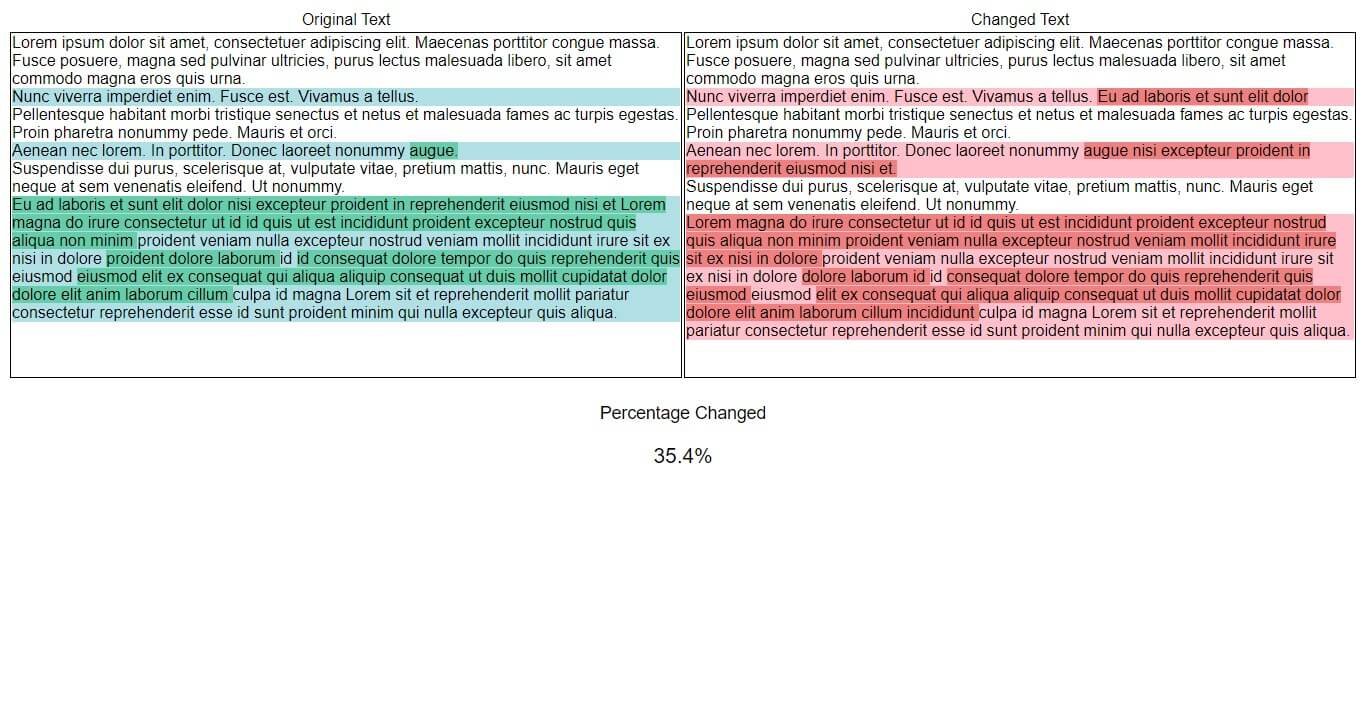
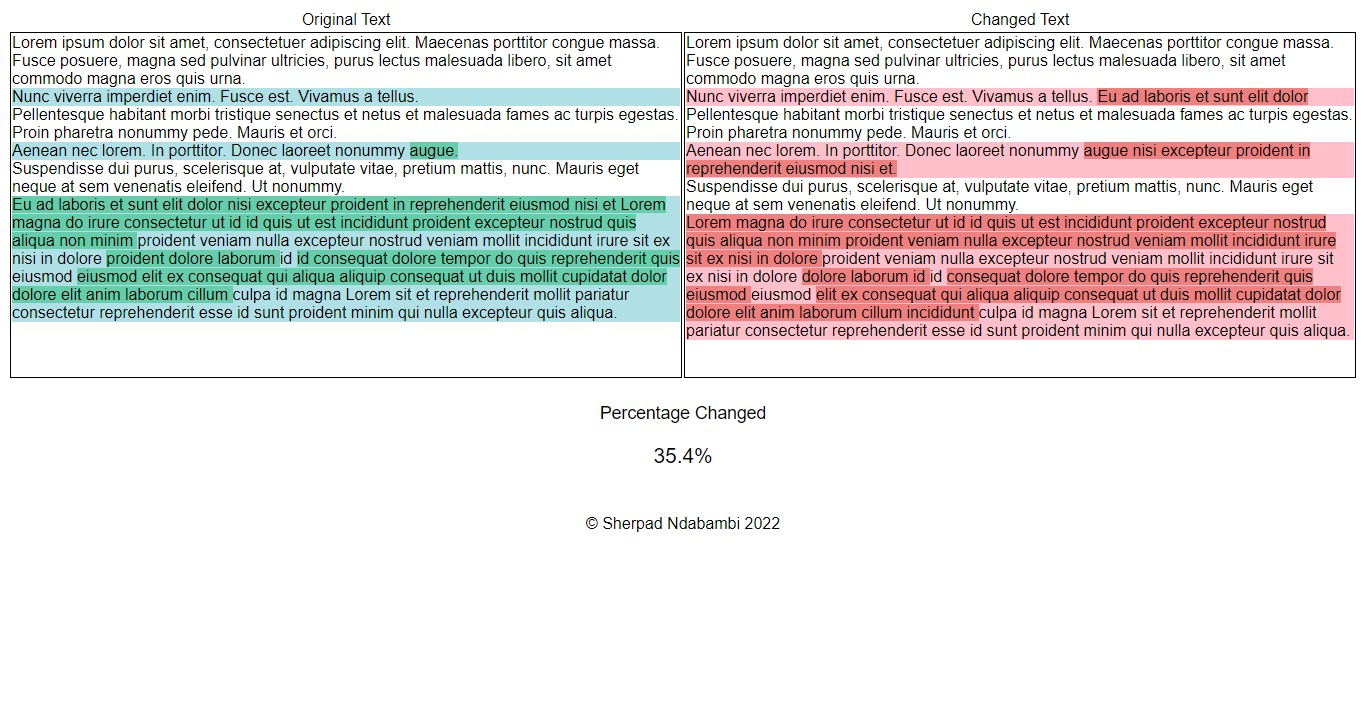
Added footer

diff --git a/index.html b/index.html
@@ -13,6 +13,12 @@
 
 	<link rel="stylesheet" type="text/css" href="./css/styles.css">
 
+	<!--scripts-->
+	<script defer type="text/javascript" src="./js/index.js"></script>
+	<script defer type="text/javascript" src="https://ajax.googleapis.com/ajax/libs/jquery/3.6.0/jquery.min.js"></script>
+	<script type="text/javascript" src="js/includeLocal.js"></script>
+	<script defer type="text/javascript">window.jQuery || includeLocalJS("jquery-3.6.0.min.js");</script>
+
 </head>
 
 <body onbeforeunload="onPageUnload()" onload="onPageLoad()">
@@ -30,8 +36,21 @@
 			<td colspan="2"><button onclick="checkDifference()">Check Difference</button></td>
 		</tr>
 	</table>
-	<div id="result"></div>
 
-	<script type="text/javascript" src="./js/index.js"></script>
+	<!--Footer-->
+	<footer class="container">
+
+		<div id="copyright" class="center middle">
+
+			&copy Sherpad Ndabambi <span id="footerYear"></span>
+
+		</div>
+		
+	</footer>
+
+	<script defer type="text/javascript" src="./js/index.js"></script>
+	<script defer type="text/javascript" src="https://ajax.googleapis.com/ajax/libs/jquery/3.6.0/jquery.min.js"></script>
+	<script type="text/javascript" src="js/includeLocal.js"></script>
+	<script defer type="text/javascript">window.jQuery || includeLocalJS("jquery-3.6.0.min.js");</script>
 	
 </body>

diff --git a/display.html b/display.html
@@ -6,6 +6,13 @@
 
 	<link rel="stylesheet" type="text/css" href="./css/styles.css">
 
+	<!--scripts-->
+	<script defer type="text/javascript" src="././js/index.js"></script>
+	<script defer type="text/javascript" src="./js/display.js"></script>
+	<script defer type="text/javascript" src="https://ajax.googleapis.com/ajax/libs/jquery/3.6.0/jquery.min.js"></script>
+	<script type="text/javascript" src="js/includeLocal.js"></script>
+	<script defer type="text/javascript">window.jQuery || includeLocalJS("jquery-3.6.0.min.js");</script>
+
 </head>
 
 <body onload="onPageLoad()">
@@ -36,7 +43,15 @@
 		</tr>
 	</table>
 
-	<script defer type="text/javascript" src="././js/index.js"></script>
-	<script defer type="text/javascript" src="./js/display.js"></script>
+	<!--Footer-->
+	<footer class="container">
+
+		<div id="copyright" class="center middle">
+
+			&copy Sherpad Ndabambi <span id="footerYear"></span>
+
+		</div>
+		
+	</footer>
 
 </body>

diff --git a/js/index.js b/js/index.js
@@ -1,3 +1,7 @@
+$(document).ready(function() {
+    setFooterYear();
+});
+
 function checkDifference() {
 	localStorage.setItem("changedText", document.getElementById("changedText").value);
 	localStorage.setItem("originalText", document.getElementById("originalText").value);
@@ -40,4 +44,9 @@ function resizeTextAreas() {
 
 function round(number) {
     return ((number < 10) ? Math.round(number * 100) / 100 : Math.round(number * 10) / 10);
+}
+
+function setFooterYear() {
+    let date = new Date(), year = date.getFullYear();
+    $("#footerYear").text(year.toString());
 }

diff --git a/css/styles.css b/css/styles.css
@@ -2,11 +2,39 @@ body {
 	font-family: sans-serif;
 }
 
+.center {
+	left: 50%;
+	position: absolute;
+	transform: translateX(-50%);
+}
+
+.center.middle {
+	transform: translate(-50%, -50%);
+}
+
+.container {
+	position: relative;
+}
+
+#copyright {
+	text-align: center;
+}
+
 .displayCell{
 	border: 1px solid black;
 	text-align: left;
 	vertical-align: top;
 	width: 50%;
+}
+
+footer {
+	margin-top: 2rem;
+}
+
+.middle {
+	position: absolute;
+	top: 50%;
+	transform: translateY(-50%);
 }
 
 p {

diff --git a/js/includeLocal.js b/js/includeLocal.js
@@ -1,0 +1,7 @@
+function includeLocalCSS(filename) {
+    $("head").append(`<link href="css/vendor/${filename}" rel="stylesheet">`);
+}
+
+function includeLocalJS(name) {
+    document.write(`<script type='text/javascript' src='js/vendor/${name}'><\/script>`);
+}
